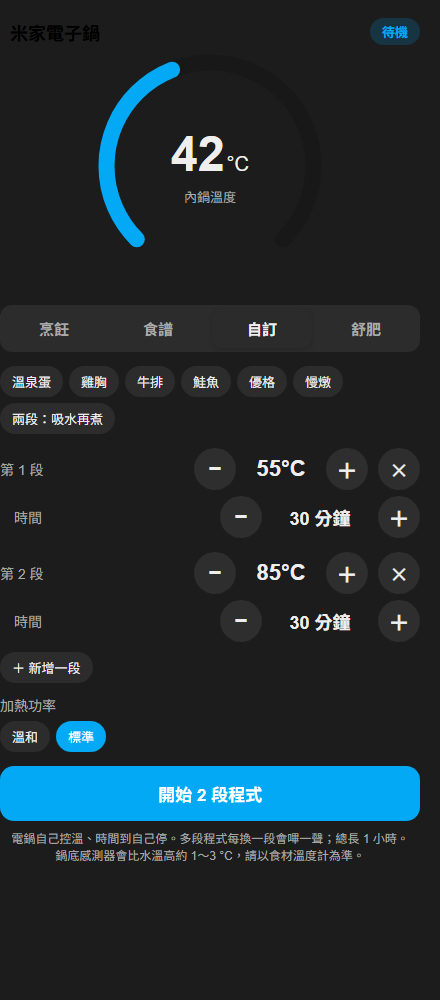
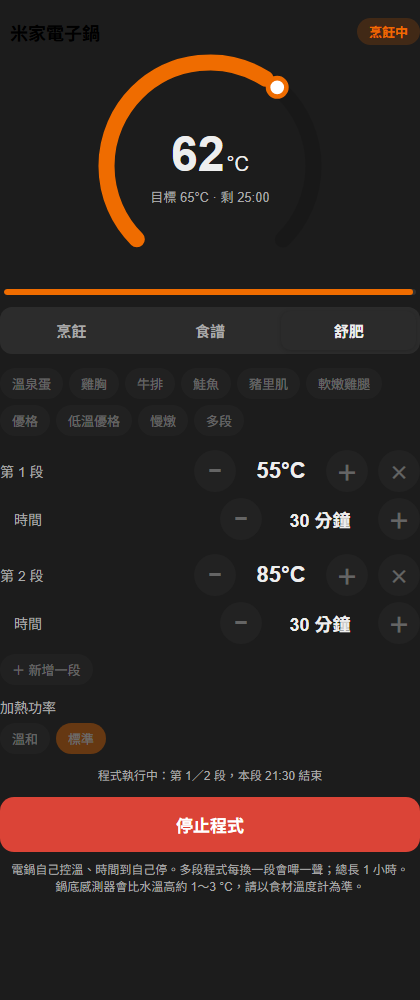
多段程式：手動取消即中止並通知、完成通知、環上標示目標溫度、HA 啟動清進度；如實記載偶發不自停
Claude-Session: https://claude.ai/code/session_019ush5N2YazXh1tL8LVHzhm

diff --git a/card/cooker-card.js b/card/cooker-card.js
@@ -6,7 +6,7 @@ const E = {
   akw: 'switch.chunmi_tw1_c3d7_auto_keep_warm', sel: 'select.chunmi_tw1_c3d7_start_cook',
   cancel: 'button.chunmi_tw1_c3d7_cancel_cooking',
   menu: 'sensor.chunmi_tw1_c3d7_menu', slot: 'input_text.cooker_slot5', pending: 'input_boolean.cooker_slot5_pending',
-  prog: 'script.cooker_program', pstep: 'input_number.cooker_prog_step', ptotal: 'input_number.cooker_prog_total', pend: 'input_datetime.cooker_prog_end',
+  prog: 'script.cooker_program', pstep: 'input_number.cooker_prog_step', ptotal: 'input_number.cooker_prog_total', pend: 'input_datetime.cooker_prog_end', ptgt: 'input_number.cooker_prog_target',
 };
 const MODES = [ // [start-cook 參數, 名稱, 圖示]；7–15 電鍋會拒絕
   [1, '精煮飯', 'mdi:creation'], [2, '快煮飯', 'mdi:lightning-bolt'],
@@ -140,7 +140,7 @@ class CookerCard extends HTMLElement {
   }
   _act(a, v) {
     if (a === 'tab') { this._tab = v; }
-    else if (a === 'mode') { if (this._confirm('mode' + v)) { if (+v === 5) this._call('input_boolean', 'turn_on', { entity_id: E.pending }); this._call('xiaomi_miot', 'call_action', { entity_id: E.cooker, siid: 2, aiid: 1, params: [+v] }); } return; }
+    else if (a === 'mode') { if (this._confirm('mode' + v)) { this._call('input_number', 'set_value', { entity_id: E.ptgt, value: 0 }); if (+v === 5) this._call('input_boolean', 'turn_on', { entity_id: E.pending }); this._call('xiaomi_miot', 'call_action', { entity_id: E.cooker, siid: 2, aiid: 1, params: [+v] }); } return; }
     else if (a === 'csel') { const x = HOLD_PRESETS[+v]; if (x) this._cs.steps = x[1].map((q) => q.slice()); }
     else if (a === 'cadd') { if (this._cs.steps.length < 8) { const l = this._cs.steps[this._cs.steps.length - 1] || [60, 60]; this._cs.steps.push(l.slice()); } }
     else if (a === 'cdel') { if (this._cs.steps.length > 1) this._cs.steps.splice(+v, 1); }
@@ -150,24 +150,24 @@ class CookerCard extends HTMLElement {
     else if (a === 'cgo') {
       const st = this._cs.steps, pw = this._cs.power;
       if (this._confirm('cgo')) {
-        if (st.length === 1) this._call('xiaomi_miot', 'call_action', { entity_id: E.cooker, siid: 4, aiid: 1, params: [buildHold(st[0][0], st[0][1], pw)] });
-        else this._call('script', 'cooker_program', { packets: st.map(([t, m]) => buildHold(t, m, pw)), minutes: st.map(([, m]) => m) });
+        if (st.length === 1) { this._call('input_number', 'set_value', { entity_id: E.ptgt, value: st[0][0] }); this._call('xiaomi_miot', 'call_action', { entity_id: E.cooker, siid: 4, aiid: 1, params: [buildHold(st[0][0], st[0][1], pw)] }); }
+        else this._call('script', 'cooker_program', { packets: st.map(([t, m]) => buildHold(t, m, pw)), minutes: st.map(([, m]) => m), targets: st.map(([t]) => t) });
       } return;
     }
-    else if (a === 'cstop') { if (this._confirm('cstop')) { this._call('script', 'turn_off', { entity_id: E.prog }); this._call('button', 'press', { entity_id: E.cancel }); this._call('input_number', 'set_value', { entity_id: E.pstep, value: 0 }); } return; }
+    else if (a === 'cstop') { if (this._confirm('cstop')) { this._call('script', 'turn_off', { entity_id: E.prog }); this._call('button', 'press', { entity_id: E.cancel }); this._call('input_number', 'set_value', { entity_id: E.pstep, value: 0 }); this._call('input_number', 'set_value', { entity_id: E.ptgt, value: 0 }); } return; }
     else if (a === 'rcsel') { const i = recipeInfo(v); this._rc = { id: v, min: i.def, order: 0, akw: i.akw, temp: i.temp }; }
     else if (a === 'rcmin') { const i = recipeInfo(this._rc.id); if (i.max > i.min) this._rc.min = Math.min(i.max, Math.max(i.min, this._rc.min + +v)); }
     else if (a === 'rcord') { this._rc.order = Math.min(23 * 60 + 30, Math.max(0, this._rc.order + +v)); }
     else if (a === 'rcakw') this._rc.akw = !this._rc.akw;
     else if (a === 'rctemp') { this._rc.temp = Math.min(50, Math.max(30, (this._rc.temp || 40) + +v)); }
-    else if (a === 'rcgo') { const r = this._rc; if (r && this._confirm('rcgo')) { this._call('xiaomi_miot', 'call_action', { entity_id: E.cooker, siid: 4, aiid: 1, params: [buildPacket(r.id, r.min, r.order, r.akw, r.temp)] }); } return; }
+    else if (a === 'rcgo') { const r = this._rc; if (r && this._confirm('rcgo')) { this._call('input_number', 'set_value', { entity_id: E.ptgt, value: 0 }); this._call('xiaomi_miot', 'call_action', { entity_id: E.cooker, siid: 4, aiid: 1, params: [buildPacket(r.id, r.min, r.order, r.akw, r.temp)] }); } return; }
     else if (a === 'cancel') { if (this._confirm('cancel')) this._call('button', 'press', { entity_id: E.cancel }); return; }
     else if (a === 'akw') this._call('switch', 'toggle', { entity_id: E.akw });
     this._sig = ''; this._render();
   }
   _render() {
     const st = this._s(E.cooker), idle = st === 'idle';
-    const temp = this._n(E.temp);
+    const temp = this._n(E.temp), tgt = st === 'busy' ? this._n(E.ptgt) : 0;
     const tab = this._tab || (this._s(E.prog) === 'on' ? 'cs' : 'cook');
     const left = this._n(E.left), total = this._n(E.cook) * 60;
     let remain = null, pct = 0;
@@ -178,7 +178,8 @@ class CookerCard extends HTMLElement {
     const acc = st === 'unavailable' ? '#9e9e9e' : st === 'busy' ? '#ef6c00' : st === 'keep warm' ? '#f4a100' : st === 'delay' ? '#7e57c2' : 'var(--primary-color)';
     // 溫度環：270° 弧，0–100°C
     const R = 90, C = 2 * Math.PI * R, arc = C * 0.75, frac = Math.min(1, Math.max(0, temp / 100));
-    const sub = remain != null && st === 'busy' ? `剩 ${this._fmt(remain)}` : st === 'keep warm' ? `已保溫 ${this._fmt(left)}` : '內鍋溫度';
+    const ang = (270 * (tgt / 100)) * Math.PI / 180, tx = 100 + R * Math.cos(ang), ty = 100 + R * Math.sin(ang);
+    const sub = tgt && remain != null ? `目標 ${tgt}°C · 剩 ${this._fmt(remain)}` : remain != null && st === 'busy' ? `剩 ${this._fmt(remain)}` : st === 'keep warm' ? `已保溫 ${this._fmt(left)}` : '內鍋溫度';
     const ask = this._ask;
     const panelCook = `
       <div class="grid">${MODES.map(([o, n, i]) => `<button class="mode ${ask === 'mode' + o ? 'ask' : ''}" data-a="mode" data-v="${o}" ${idle ? '' : 'disabled style="opacity:.4"'}><ha-icon icon="${i}"></ha-icon>${ask === 'mode' + o ? '再按一次確認' : (o === 5 ? slotTxt : n)}</button>`).join('')}</div>
@@ -210,13 +211,14 @@ class CookerCard extends HTMLElement {
       ${prog ? `<div class="note" style="margin-top:12px">程式執行中：第 ${pstep}／${ptotal} 段${pendTxt ? '，本段 ' + pendTxt + ' 結束' : ''}</div>
         <button class="go ${ask === 'cstop' ? 'ask' : 'stop'}" data-a="cstop">${ask === 'cstop' ? '再按一次確認停止' : '停止程式'}</button>`
       : `<button class="go ${ask === 'cgo' ? 'ask' : ''}" data-a="cgo" ${idle ? '' : 'disabled'}>${!idle ? '電鍋使用中' : ask === 'cgo' ? '再按一次：確認內鍋已放好食材與水' : cs.steps.length > 1 ? `開始 ${cs.steps.length} 段程式` : '開始恆溫'}</button>`}
-      <div class="note">電鍋自己控溫、時間到自己停。多段程式每換一段會嗶一聲${cs.steps.length > 1 ? `；總長 ${this._dur(cs.steps.reduce((a, q) => a + q[1], 0))}` : ''}。<br>鍋底感測器會比水溫高約 1～3 °C，請以食材溫度計為準。</div>`;
+      <div class="note">電鍋自己控溫；時間到通常會自己停，多段程式每段結束由 HA 取消並換段（換段會嗶一聲${cs.steps.length > 1 ? `；總長 ${this._dur(cs.steps.reduce((a, q) => a + q[1], 0))}` : ''}）。<br>鍋底感測器會比水溫高約 1～3 °C，請以食材溫度計為準。</div>`;
     this.shadowRoot.innerHTML = `<style>${css}</style>
     <ha-card style="--acc:${acc}">
       <div class="top"><ha-icon icon="mdi:pot-steam-outline" style="color:var(--acc)"></ha-icon><div class="t">米家電子鍋</div><div class="chip">${label}</div></div>
       <div class="ring"><svg viewBox="0 0 200 200">
         <circle cx="100" cy="100" r="${R}" fill="none" stroke="currentColor" stroke-opacity=".12" stroke-width="14" stroke-linecap="round" stroke-dasharray="${arc} ${C}"/>
         <circle cx="100" cy="100" r="${R}" fill="none" stroke="var(--acc)" stroke-width="14" stroke-linecap="round" stroke-dasharray="${arc * frac} ${C}"/>
+        ${tgt ? `<circle cx="${tx}" cy="${ty}" r="8" fill="#fff" stroke="var(--acc)" stroke-width="4"/>` : ''}
       </svg><div class="c"><div class="big">${st === 'unavailable' ? '--' : temp}<small>°C</small></div><div class="sub">${sub}</div></div></div>
       ${remain != null ? `<div class="bar"><i style="width:${pct}%"></i></div>` : '<div style="height:12px"></div>'}
       <div class="seg"><button data-a="tab" data-v="cook" class="${tab === 'cook' ? 'on' : ''}">烹飪</button><button data-a="tab" data-v="rc" class="${tab === 'rc' ? 'on' : ''}">食譜</button><button data-a="tab" data-v="cs" class="${tab === 'cs' ? 'on' : ''}">舒肥</button></div>

diff --git a/README.md b/README.md
@@ -45,8 +45,8 @@ The cooker exposes **no target-temperature setting**, but its recipes are plain 
   per step, up to 8 steps (presets: onsen egg, chicken breast, steak, salmon, yogurt, slow stew, soak-then-cook).
   One step is sent as a single packet (the cooker thermostats itself, no beeping); several steps run through
   `script.cooker_program` ([`ha/cooker_program.script.json`](ha/cooker_program.script.json)), which cancels, waits
-  for idle and sends the next packet when a step ends. Each packet carries its own duration, so the cooker stops
-  by itself even if HA dies. The temperature is held through the yogurt flow, see
+  for idle and sends the next packet when a step ends. Each packet carries its own duration and the cooker normally stops by itself at the end of a step (we saw it twice keep
+  running in a 480-min hold instead, so the script also cancels at every step end). If you pass `targets`, the card marks them on the ring. The temperature is held through the yogurt flow, see
   [recipe format](docs/recipe-format.md#custom-constant-temperature-recipes).
 - [`tools/cookcode.py`](tools/cookcode.py) and [`data/recipes.json`](data/recipes.json): build and send recipe
   packets from scripts and automations.
@@ -102,8 +102,9 @@ The cooker exposes **no target-temperature setting**, but its recipes are plain 
   food safety**; low temperatures (< 55 °C) and long times carry a bacterial risk. Baby food: follow a
   paediatric guideline, not this repository.
 - Never call the cooker's `set-factory-reset` action (siid 4, aiid 4) or write its `bell` property.
-- A multi-step program depends on HA to switch steps: if HA dies mid-program the current step simply ends on the
-  cooker's own timer (it never keeps heating indefinitely).
+- A multi-step program depends on HA to switch steps and to cancel at the end. The cooker normally stops by itself when a
+  step's time is up, but twice in testing it did not and continued in a 480-minute hold, so do not leave a program running
+  unattended if HA or the network is unreliable. Cancelling the program by hand (cooker or app) aborts the whole program and notifies you.
 
 ## A wish for Xiaomi
 

diff --git a/README.zh-TW.md b/README.zh-TW.md
@@ -78,7 +78,8 @@
 - 單段自訂食譜就是送一個封包，電鍋自己控溫。
 - `script.cooker_program`（欄位 `packets`、`minutes`）依序執行：取消、等待機、送封包、等該段分鐘數。進度由
   `input_number.cooker_prog_step`／`cooker_prog_total` 與 `input_datetime.cooker_prog_end` 顯示。每個封包都帶
-  自己的時間，所以 HA 當機時電鍋也會自己停。
+  自己的時間，電鍋通常會在時間到時自己停（實測有兩次沒停、改成 480 分鐘恆溫繼續跑，所以腳本每段結束也會主動取消）。
+  傳入 `targets` 時，卡片會在溫度環上標出目標溫度。
 - `cooker_slot5*` 自動化：按下「自選」45 秒後，讀 `menu` 屬性的食譜位元組，把名稱顯示在按鈕上。
 
 ## 安全與限制
@@ -88,7 +89,8 @@
 - 食譜預設（時間與溫度）是常見的家用舒肥數值，**沒有驗證食品安全**；低溫（< 55 °C）加長時間有細菌風險。
   嬰兒副食品請依兒科建議，不要依本專案。
 - 千萬不要呼叫電鍋的 `set-factory-reset` 動作（siid 4、aiid 4），也不要寫入 `bell` 屬性。
-- 多段程式靠 HA 換段：HA 中途當機時，目前這一段會在電鍋自己的計時到點後停止（不會無限加熱）。
+- 多段程式靠 HA 換段與最後取消。電鍋通常在該段時間到時自己停，但測試中有兩次沒停、改成 480 分鐘恆溫繼續跑，
+  所以 HA 或網路不穩時不要放著不管。在電鍋或 App 手動取消，整個程式會中止並通知你。
 
 ## 給小米的小小願望
 
